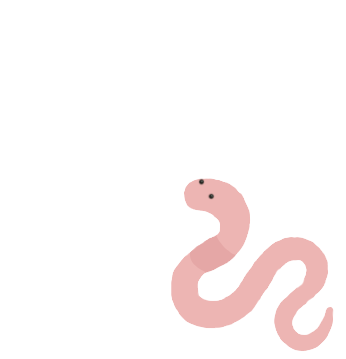
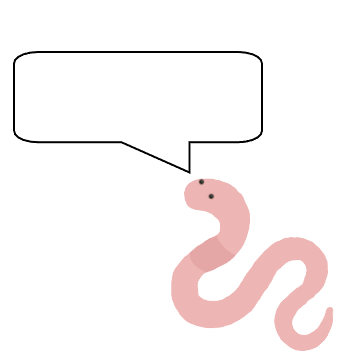
make worm speech correct

diff --git a/SamSays.html b/SamSays.html
@@ -6,21 +6,37 @@
 
     <style>
       .container {
-        text-align: center;
-        color: white;
-      }
-      .centered {
+        margin: 0;
         position: absolute;
-        color: black;
         top: 50%;
         left: 50%;
+        -ms-transform: translate(-50%, -50%);
         transform: translate(-50%, -50%);
+        width: 500px;
+        height: 500px; 
       }
+      .centered {
+        position:absolute;
+        top: 20%;
+        left: 10%;
+        right:28%;
+        /* makes so words stay in speech bubble */
+      }
+      #wormOTD {
+        width:100%;
+        height:100%;
+        object-fit: contain;
+      }
+
     </style>
 
+  <div> 
     <div class="container">
-      <img src="./assets/worm.png" alt="Snow" style="width: 30%" />
-      <div class="centered">Centered</div>
+      <img src="./assets/worm.png" alt="" id="wormOTD"/>
+      <div class="centered">
+        <p>Vegetable Mush :3</p>
+      </div>
     </div>
+  </div>
   </body>
 </html>
